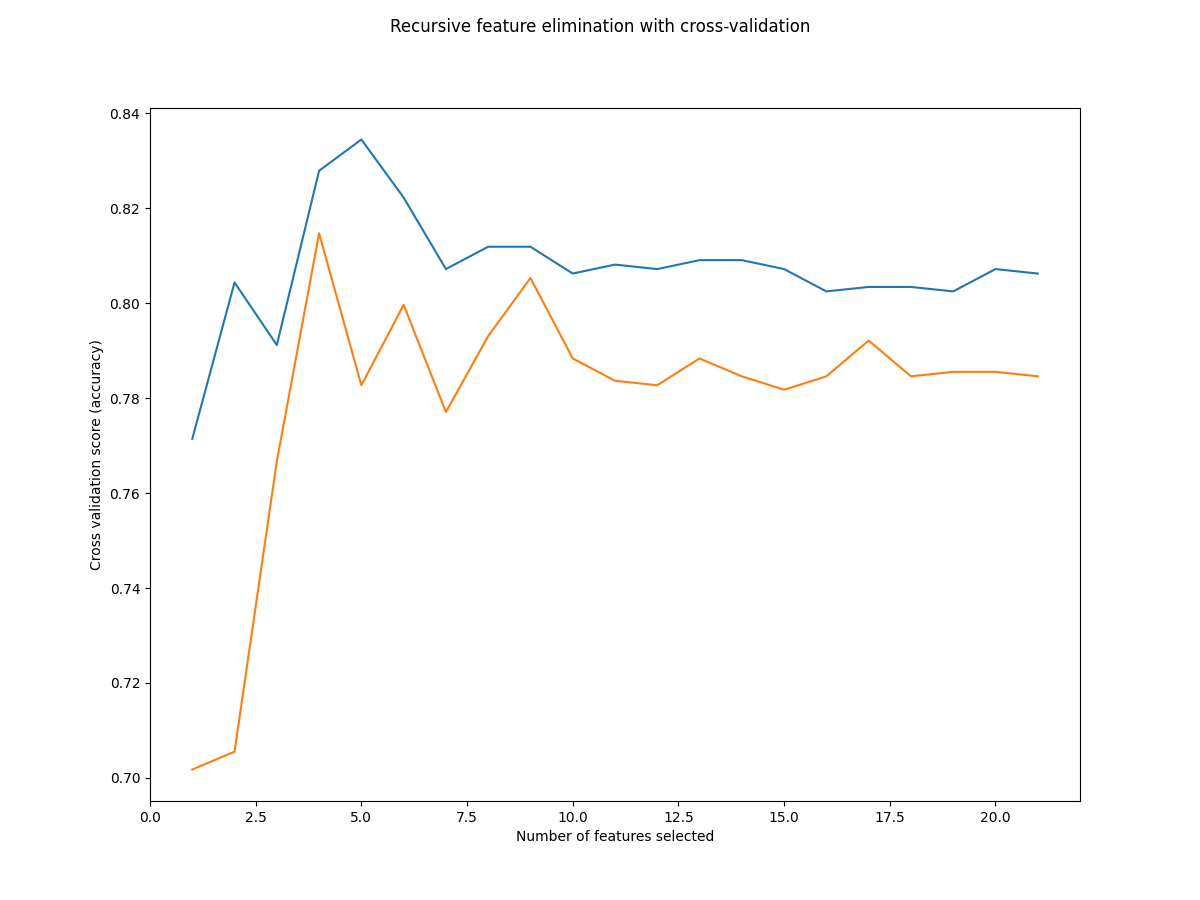
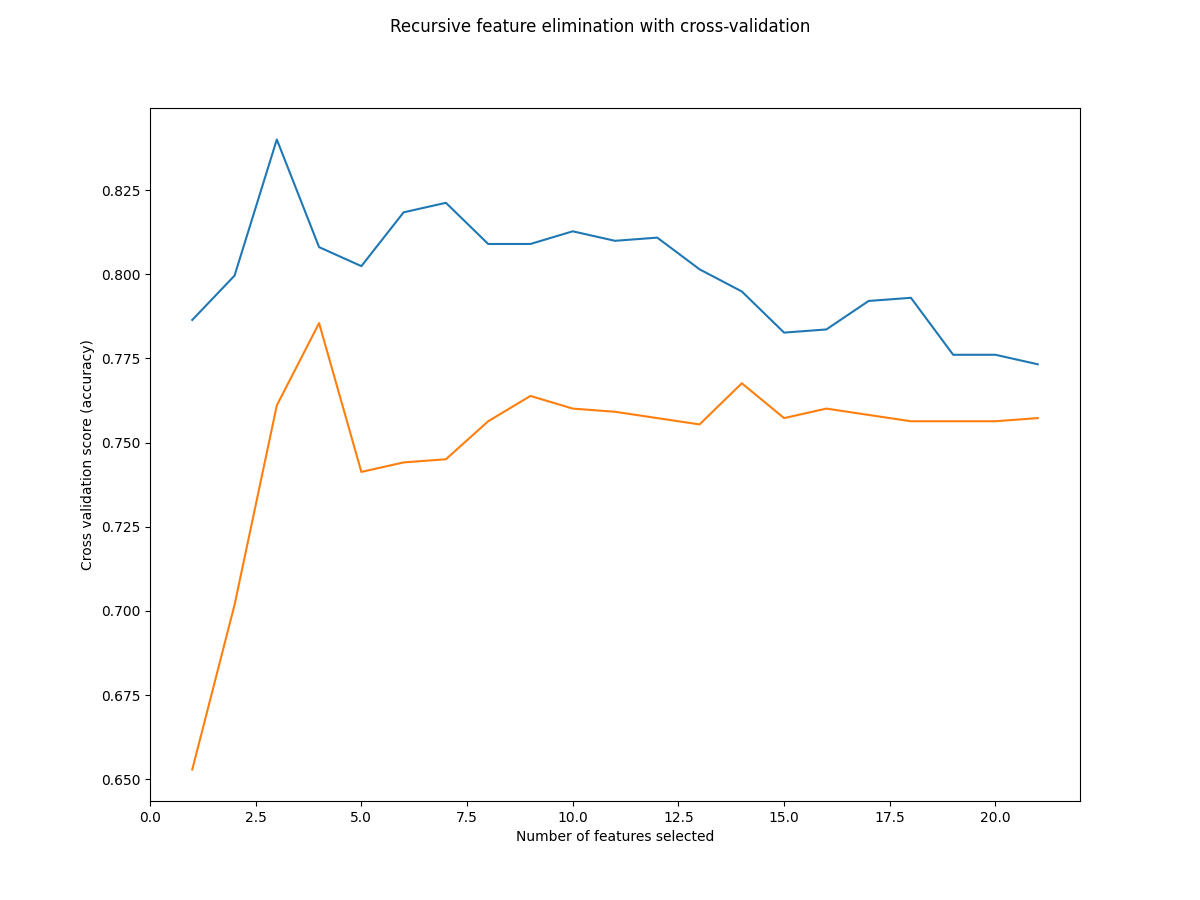
fix: Regenerate eval plot

diff --git a/src/model.py b/src/model.py
@@ -20,8 +20,8 @@ def eval_features() -> None:
     y_train: DataFrame = df["fetal_health"]
 
     # Scaling
-    scaler: StandardScaler = StandardScaler().fit(X_train)
-    X_train_scaled = scaler.transform(X_train)
+    scaler: StandardScaler = StandardScaler().fit(X_train.values)
+    X_train_scaled = scaler.transform(X_train.values)
 
     # Feature selection
     rfecv: RFECV = RFECV(
@@ -30,7 +30,7 @@ def eval_features() -> None:
         scoring="accuracy",
         min_features_to_select=1,
     )
-    rfecv.fit(X_train_scaled, y_train)
+    rfecv.fit(X_train_scaled, y_train.values)
     print(f"Optimal number of features: {rfecv.n_features_}")
     print(f"Selected features: {', '.join(X_train.columns[rfecv.support_])}")
 
@@ -55,14 +55,7 @@ def svm_train() -> None:
     df: DataFrame = pd.read_csv("data/raw/fetal_health.csv")
 
     # Features chosen from the evaluation
-    X_data: DataFrame = df[
-        [
-            "accelerations",
-            "prolongued_decelerations",
-            "abnormal_short_term_variability",
-            "histogram_mean",
-        ]
-    ]
+    X_data: DataFrame = df[["accelerations", "histogram_mean", "histogram_median"]]
     y_data: DataFrame = df["fetal_health"]
 
     # Train-test split
